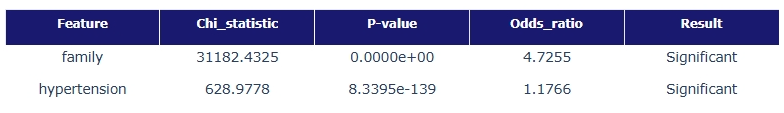
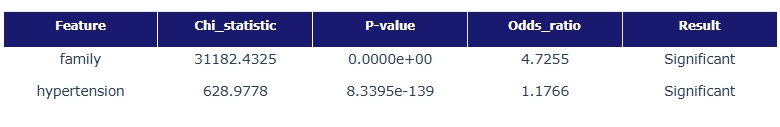
msg

diff --git a/README.md b/README.md
@@ -68,6 +68,8 @@
 <br>
 
 - **[Family_history] 와 [Hypertension]** 상관관계 통계적으로 확증함 : 가족력 있는 집단 그렇지 않은 집단에 비해 발병 위험 높게 나타났으며, 이는 유전적요인이 매우 중요한 변수임을 시사
+
+![당뇨 7개 핵심 위험인자 시각화](./output/2개%20변수%20chi-square.png)
 ![당뇨 7개 핵심 위험인자 시각화](./output/2개%20변수%20가로막대그래프.png)
 
 ## ✔5-1. 핵심 변수 비교 분석
